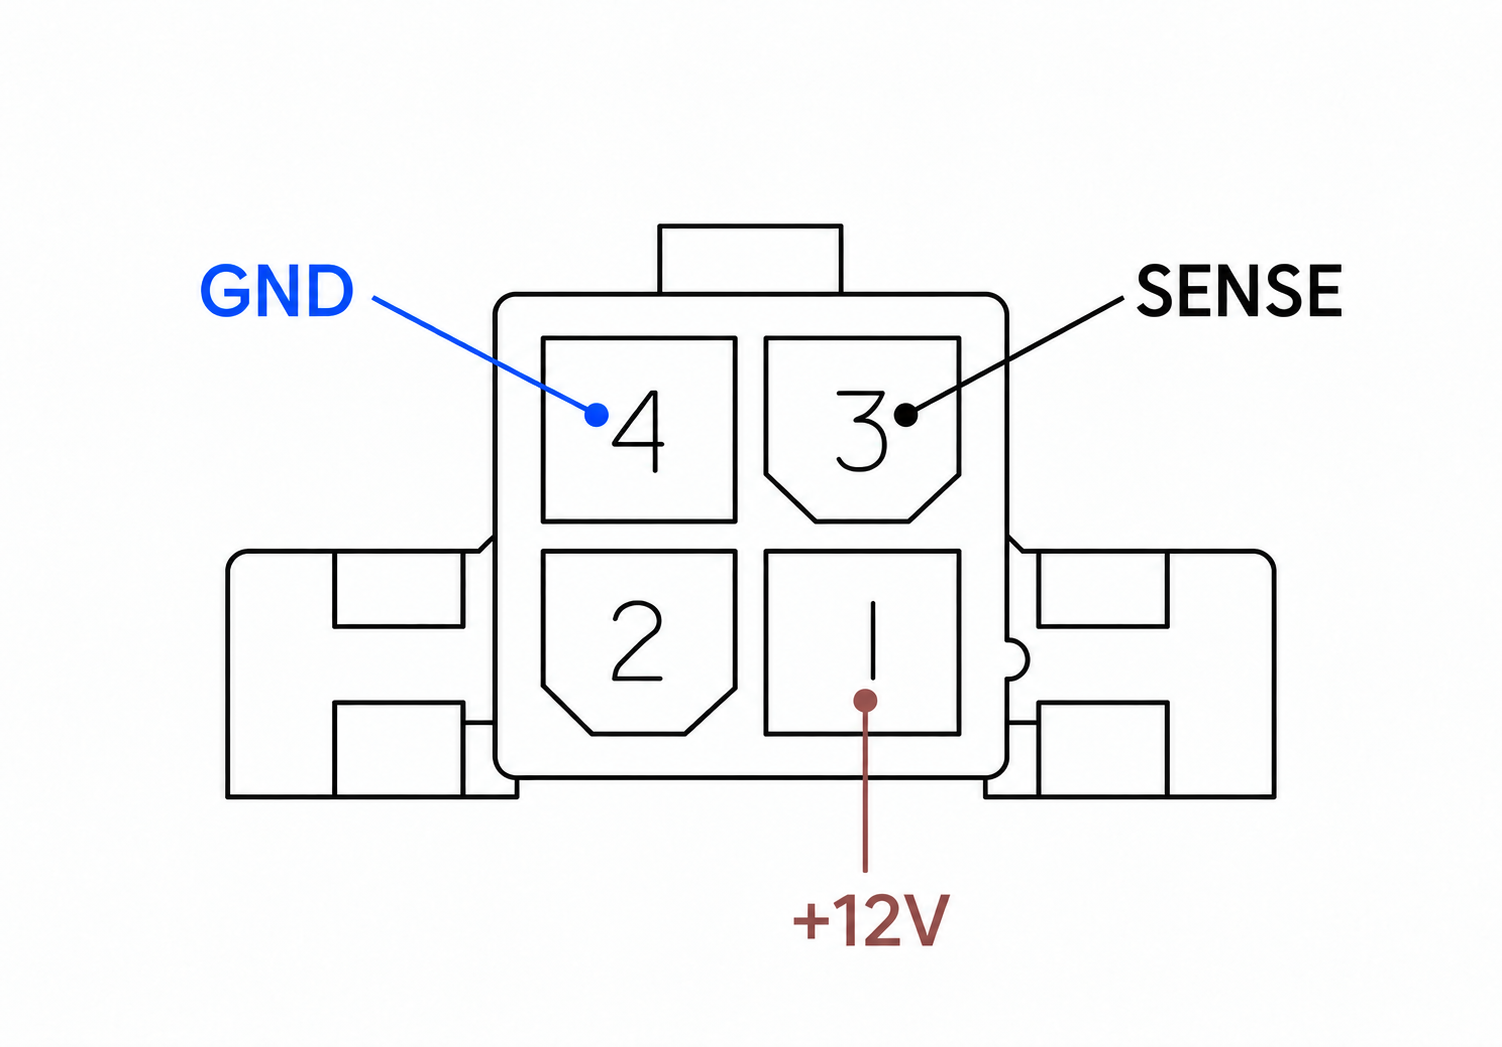
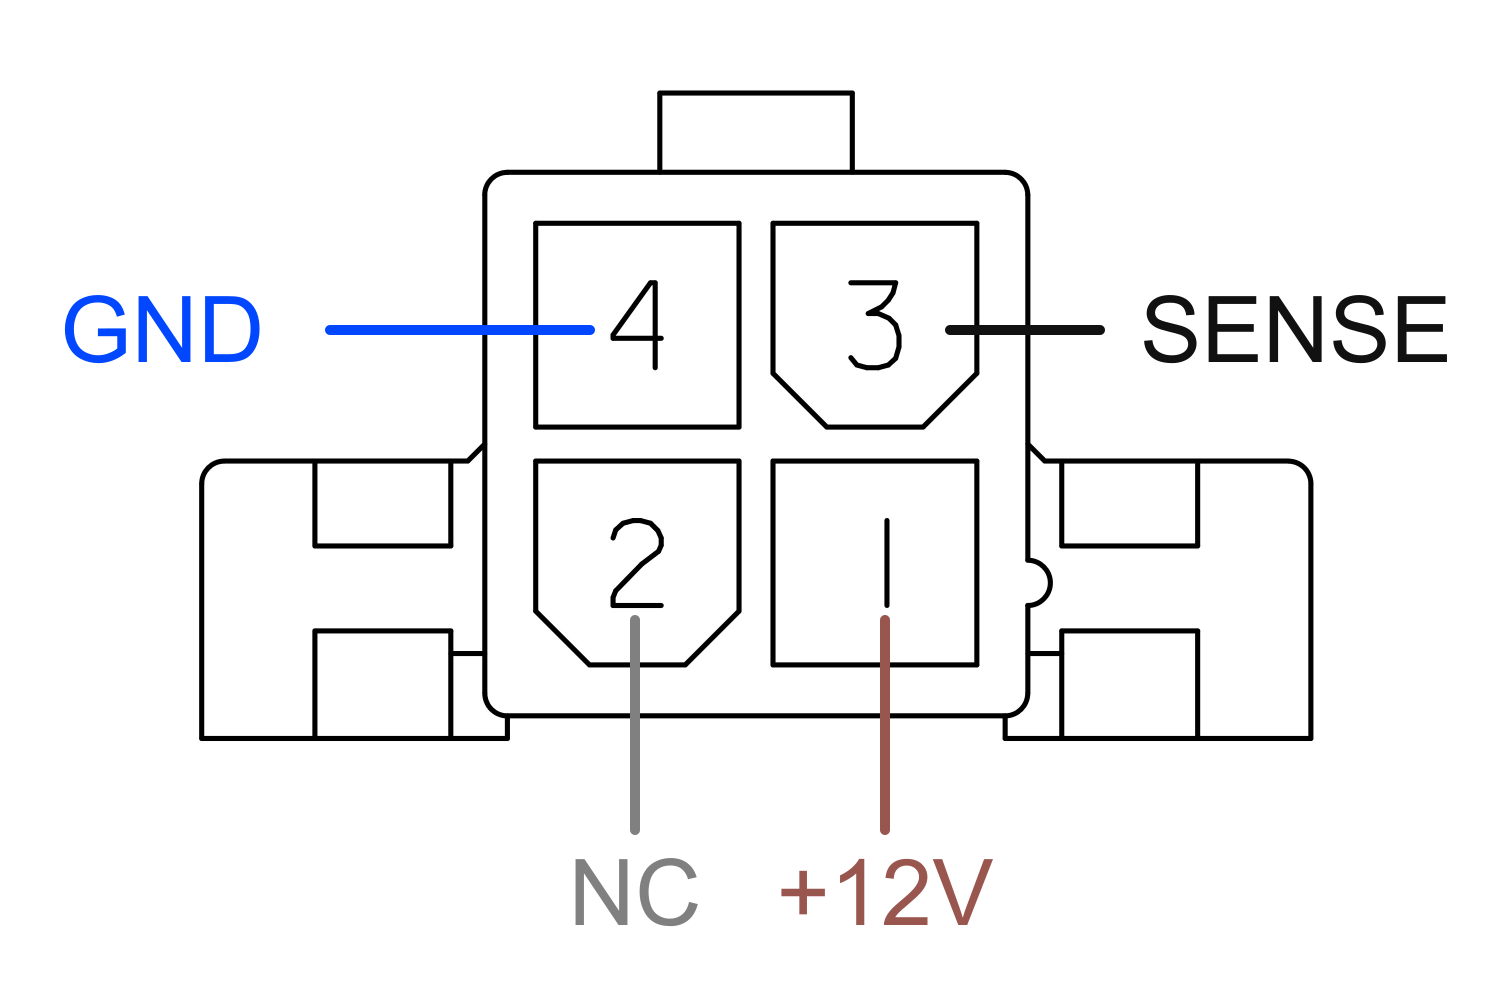
docs: refresh usage, assembly and sync performance

Changed region(s): [[0.0307, 0.093, 0.9813, 0.93], [0.368, 0.837, 0.46, 0.93]]

diff --git a/README.md b/README.md
@@ -4,95 +4,182 @@ Wireless timing system for Formula Student Korea dynamic events.
 
 ## Features
 
-* LoRa wireless communication with one USB master and up to five battery-powered sensors
-* Start → Finish and lap timing with optional lap-count auto-stop
-* Web-based console with offline support
-* Excel export and JSON backup / restore
-* Firmware updates through the browser
+* Wireless timing with one USB master and up to five sensors
+* [Web console](https://luftaquila.github.io/fsk-timekeeper/) with a standalone HTML file for offline use
+* Wireless range over 200 m and time synchronization error below 3 µs
 
-## Sensor connector
+<details>
+<summary>Wireless time sync test result</summary>
 
-* Sensor: Autonics **BA2M-DDT**
-* Board: Molex Mini-Fit Jr. 5569-04A2 · Cable: Molex 5557-04R (39012040)
-* Pinout: `1: +12V` · `2: NC` · `3: SENSE` · `4: GND`
+https://github.com/user-attachments/assets/1cac1805-847e-4b83-8514-46a629c6ced4
 
-<img src=".github/assets/sensor-pinout.png" alt="J1 sensor connector pinout" width="550">
+* CH1 (Yellow): Master
+* CH2 (Cyan) : Sensor
 
-Board connector viewed from the mating side, latch at the top.
+| Statistic | Offset |
+| --- | ---: |
+| Mean | +0.06 µs |
+| Sample standard deviation | 0.54 µs |
+| Minimum | −0.89 µs |
+| Maximum | +1.14 µs |
 
-![BA2M-DDT sensor cable wiring](.github/assets/wire.png)
-
-Cable-side connector shown above. Wire colors follow the [BA2M-DDT datasheet, p. 2](https://autonics.se/wp-content/uploads/2018/02/BA_cat_eng_161109.pdf). Leave pin 2 unconnected.
+</details>
 
 ## Usage
 
-Open the [online console](https://luftaquila.github.io/fsk-timekeeper/) in Chrome or Edge.
-For offline use, download `fsk-timekeeper-console.html` from the [latest release](https://github.com/luftaquila/fsk-timekeeper/releases/latest).
+### 1. Prepare
 
-### 1. Set up devices
-
-1. Connect each board to the PC over USB and click `Connect` in Settings.
-2. Under Device Settings, apply the same Radio settings and Radio Key to every board. The default frequency is 922.9 MHz.
-   * Generate a key once, then copy and apply it to the other boards.
-3. Leave the master connected to the PC and power the sensors from their batteries.
-4. In Settings → Sensors, assign each sensor to `Start` or `Finish`. Lap timing uses the `Start` sensor.
-
-> [!IMPORTANT]
-> Use firmware and console from the same release on all devices. Keep the master connected during measurement; reconnecting it ends the current run.
+1. Open the [web console](https://luftaquila.github.io/fsk-timekeeper/) in a browser with Web Serial support.
+   * For offline use, download `fsk-timekeeper-console.html` from the [latest release](https://github.com/luftaquila/fsk-timekeeper/releases/latest).
+2. Connect the master over USB and click `Connect` in `Settings`.
+3. Power the sensors.
+4. Under `Settings` → `Sensors`, assign each sensor to `Start`, `Finish`, or `Unused`.
+    * Lap timing uses only the `Start` sensor.
 
 ### 2. Measure
 
-1. Select `Start → Finish` or `Laps` on the Timing page.
-2. Click `Start` to arm the timer. Timing begins when the vehicle crosses the start sensor.
-3. For Start → Finish, cross the finish sensor to complete the run. For Laps, each subsequent crossing records a lap; set a lap target to stop automatically, or click `Stop`.
+1. Select `Start → Finish` or `Laps` in `Timing`.
+2. Click `Start` to arm the timer. Timing starts on the first pass by the start sensor.
+3. Complete the run:
+   * `Start → Finish`: pass the finish sensor to end the run.
+   * `Laps`: each subsequent pass by the start sensor records a lap.
 
-### 3. Save results
+| Start → Finish | Laps |
+| :---: | :---: |
+| <img src=".github/assets/accel.png" alt="Start to finish timing screen" width="360"> | <img src=".github/assets/laps.png" alt="Lap timing screen" width="360"> |
 
-Results are saved in the browser and listed in History.
+### 3. View and save results
 
-* `Export Excel`: Export results for the selected mode.
-* `Export JSON`: Back up all modes, including unfinished runs and device logs.
-* `Import JSON`: Restore a backup. Identical records are skipped; conflicting records cancel the import.
+Results are saved in the browser and listed in `History`.
+
+* `Export Excel`: export results for the selected mode.
+* `Backup` → `Download`: back up results from all modes and device logs as JSON.
+* `Backup` → `Restore`: import a JSON backup.
+
+<img src=".github/assets/history.png" alt="Timing history with saved start-to-finish and lap results" width="750">
 
 > [!IMPORTANT]
-> Browser storage is not a backup. Export JSON after each session and before updating. If a storage error appears, export before closing the page.
+> If a storage error appears, download a backup before closing the page.\
+> Adding the site to your bookmarks may resolve the error.
+>
+> <img src=".github/assets/storage.jpg" alt="Browser storage warning in the FSK Timekeeper Console" width="750">
 
-### 4. Update firmware
+## Do It Yourself!
 
-1. Download `fsk-timekeeper-firmware.zip` from the [latest release](https://github.com/luftaquila/fsk-timekeeper/releases/latest).
-2. Stop measurement and connect the board over USB.
-3. Open Settings → Device Settings → Firmware Update, select the ZIP and click `Update`.
-4. Select the bootloader port when prompted. After transfer, click `Reconnect` to verify the running version.
-5. Repeat for every board and use the console from the same release.
+### 1. Build the PCB
 
-If the bootloader is not detected, double-tap the board's RST button and retry. Keep the board connected until the update completes.
+1. Download `fsk-timekeeper-pcb.zip` from the [latest release](https://github.com/luftaquila/fsk-timekeeper/releases/latest) and extract it.
+2. Place a JLCPCB PCBA order for five boards (the minimum quantity) using the included GERBER, BOM, and CPL files.
+
+### 2. Solder the parts
+
+<details>
+<summary>Bill of materials</summary>
+
+| Qty | Part | Image |
+| ---: | --- | :---: |
+| 5x | Assembled `fsk-timekeeper` PCB | |
+| 5x | 22 µH SMD power inductor, 0630 package | <img src=".github/assets/components/inductor-22uh-0630.jpg" alt="SMD power inductors" width="120"> |
+| 5x | `SuperMini nRF52840` development board | <img src=".github/assets/components/supermini-nrf52840.png" alt="SuperMini nRF52840 board" width="120"> |
+| 5x | `Ra-01SH` LoRa module | <img src=".github/assets/components/ra-01sh.jpg" alt="Ra-01SH module" width="120"> |
+| 5x | LoRa antenna with IPEX-to-SMA female cable | <img src=".github/assets/components/lora-antenna.jpg" alt="LoRa antenna and IPEX-to-SMA cable" width="120"> |
+| 4x | Single-cell SMD 18650 battery holder and 18650 battery | <img src=".github/assets/components/18650-holder.png" alt="SMD 18650 battery holder" width="120"> |
+| 4x | `MTS-102` mini toggle switch | <img src=".github/assets/components/mts-102.jpg" alt="MTS-102 toggle switch" width="120"> |
+| 4x | [Autonics BA2M-DDT](https://www.autonics.com/kr/model/BA2M-DDT) diffuse reflective photoelectric sensor | <img src=".github/assets/components/ba2m-ddt.webp" alt="Autonics BA2M-DDT sensor" width="120"> |
+| 4x | [Molex 5569-04A2 (39300040)](https://www.molex.com/en-us/products/part-detail/39300040) board connector | <img src=".github/assets/components/molex-39300040.jpg" alt="Molex 39300040 board connector" width="120"> |
+| 4x | [Molex 5557-04R (39012040)](https://www.molex.com/en-us/products/part-detail/39012040) cable housing | <img src=".github/assets/components/molex-39012040.jpg" alt="Molex 39012040 cable housing" width="120"> |
+| 12x | [Molex 5556T (39000038)](https://www.molex.com/en-us/products/part-detail/39000038) crimp terminal | <img src=".github/assets/components/molex-39000038.jpg" alt="Molex 39000038 crimp terminal" width="120"> |
+| 1x | `ATGM336H` GPS module with antenna (optional) | <img src=".github/assets/components/atgm336h.jpg" alt="ATGM336H GPS module and antenna" width="120"> |
+
+</details>
+
+> [!NOTE]
+> The JLCPCB PCBA order above costs about <span>$</span>7, excluding shipping.\
+> The full set of parts costs about <span>$</span>40 on AliExpress, excluding BA2M-DDT sensors and 18650 batteries.
+
+1. All boards: solder `U2` (Ra-01SH), `U1` (SuperMini nRF52840), and `L1` (22 µH 0630 inductor).
+2. Master: solder the optional GPS module at `U4` and connect its antenna.
+3. Sensors: solder the battery holder at `BT1` and the `5569-04A2` connector at `J1`.
+4. Sensors: wire the toggle switch to `SW1`.
+5. Connect each LoRa module to an IPEX-to-SMA cable.
+
+| 3D view | Layout |
+| :---: | :---: |
+| <img src=".github/assets/pcb.png" alt="3D view of the assembled FSK Timekeeper PCB" width="360"> | <img src=".github/assets/pcb-assembly.svg" alt="PCB top view with L1, U1, U2, U4, BT1, SW1, and J1 assembly locations" width="360"> |
+
+### 3. Housing assembly
+
+Required per sensor: 4x M2 × 8 mm and 3x M3 × 14 mm hex bolts.
+
+1. Download `fsk-timekeeper-3d.zip` from the [latest release](https://github.com/luftaquila/fsk-timekeeper/releases/latest) and extract it.
+2. 3D-print 1x `master.stl`, 4x `sensor.stl`, and 4x `sensor-holder.stl`.
+3. Mount the SMA connectors and attach the LoRa antennas.
+4. Mount the switches and insert 18650 batteries into the sensor housings.
+5. Secure each PCB between the base and lid with bolts.
+6. Secure the `BA2M-DDT` sensor to the holder with bolts, then mount the holder on a tripod.
+
+### 4. Upload firmware and configure devices
+
+1. Connect a board to the [web console](https://luftaquila.github.io/fsk-timekeeper/) over USB.
+   * If a new board does not enter bootloader mode automatically, quickly short `RST` pin to `GND` twice.
+2. In `Firmware Upgrade`, select `fsk-timekeeper-firmware.zip` and click `Upgrade`.
+3. Select the port and keep USB connected during upload.
+4. Click `Reconnect` and select the board to verify the new firmware version.
+5. Generate a new key under `Radio Key` and apply it to the first board.
+6. Set up the remaining boards with the same firmware and radio key.
+
+<img src=".github/assets/console.png" alt="FSK Timekeeper Console settings with one master and four sensors" width="750">
+
+> [!IMPORTANT]
+> The master and all sensors must use the same firmware version, radio settings, and key.
+
+> [!TIP]
+> The board connected over USB acts as the master. Battery-powered boards act as sensors.
+
+### 5. Connect the sensors
+
+| Pinout | Wiring |
+| :---: | :---: |
+| <img src=".github/assets/sensor-pinout.png" alt="J1 sensor connector pinout" height="140"> | <img src=".github/assets/wire.png" alt="BA2M-DDT sensor cable wiring" height="140"> |
 
 ## Development
 
 <details>
-<summary>click to expand</summary>
+<summary>Click to expand</summary>
 
-Run commands from the repository root unless noted otherwise.
+### Firmware
 
-* Firmware: Arm GNU Toolchain (`arm-none-eabi-gcc`, with newlib-nano), Make, Python 3
+* Requires: Arm GNU Toolchain (`arm-none-eabi-gcc`, newlib-nano), Make, Python 3
 
   ```sh
-  make -C device/firmware
   make -C device/firmware test
+  make -C device/firmware
   ```
 
-* Console: Node.js 22
+### Web console
+
+* Requires: Node.js 22
 
   ```sh
   cd console
   npm ci
+  npm test
   npm run dev           # development server
   npm run build:single  # standalone HTML at dist-single/index.html
-  npm test
   ```
 
-* PCB: Open [fsk-timekeeper.kicad_pro](device/hardware/fsk-timekeeper.kicad_pro) with KiCad 10.
-* Housing: Install OpenSCAD and run `make -C device/3d` to export STL files.
+### PCB
+
+* Requires: KiCad 10+
+* Open [fsk-timekeeper.kicad_pro](device/hardware/fsk-timekeeper.kicad_pro)
+
+### Housing 3D model
+
+* Requires: OpenSCAD Nightly
+
+  ```sh
+  make -C device/3d
+  ```
 
 </details>
 
@@ -107,5 +194,5 @@ you can do whatever you want with this stuff. If we meet someday,
 and you think this stuff is worth it, you can buy me a beer in return.
 ```
 
-이 저장소의 모든 내용물은 비상업적 용도에 한해 얼마든지 자유롭게 사용할 수 있습니다.\
+이 저장소의 모든 내용은 비상업적 용도로 자유롭게 사용할 수 있습니다.\
 이 프로젝트가 마음에 든다면, 언젠가 우리가 만나게 되었을 때 맥주 한 잔 사 주세요.
